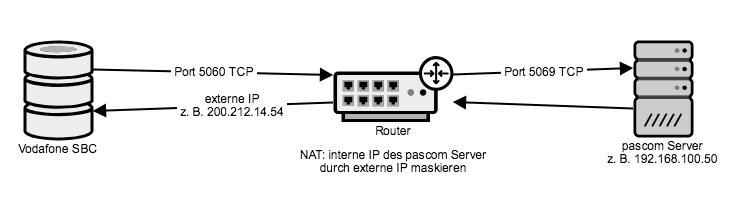
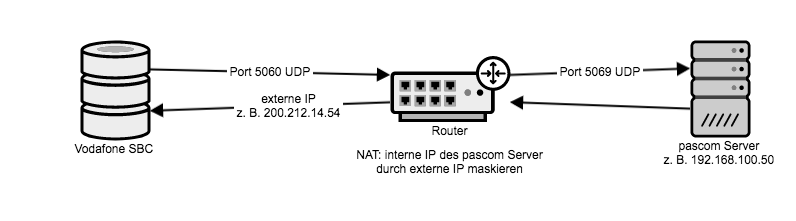
fixed Vodafone-NGN-Trunk documentation (TCP is wrong -> UDP is needed)

Changed region(s): [[0.0311, 0.1629, 0.9959, 0.7602], [0.4046, 0.6787, 0.6847, 0.7873]]

diff --git a/site/content/trunk-templates/vodafone-ngn/_index.de.md b/site/content/trunk-templates/vodafone-ngn/_index.de.md
@@ -33,8 +33,8 @@ Nach dem Erwerb und der Freischaltung Ihres Vodafone NGN Trunks erhalten Sie ein
 Beachten Sie, dass eine SIP-Kommunikation mit dem angegebenen SBC nur von der IP der Telefonanlage aus möglich ist. 
 Falls Sie Ihre pascom Telefonanlage in Ihrem eigenen Netzwerk mit einer privaten IP-Adresse verwenden, beachten Sie bitte die notwendigen Netzwerk-Einstellungen an Firewall/ Router (NAT).
 
-Eingehender Verkehr vom SBC der Vodafone muss an die IP-Adresse der pascom Telefonanlage weitergereicht werden. Aus Sicherheitsgründen sollte die Firewall-Regel sich hier ausschließlich auf Port 5060 TCP zu Port 5069 der Telefonanlage beschränken. 
-Umgekehrt muss ausgehender Verkehr per NAT modifiziert werden, da der SBC der Vodafone nur Daten von der externen IP von Port 5069 auf Port 5060 TCP des Access akzeptiert.
+Eingehender Verkehr vom SBC der Vodafone muss an die IP-Adresse der pascom Telefonanlage weitergereicht werden. Aus Sicherheitsgründen sollte die Firewall-Regel sich hier ausschließlich auf Port 5060 UDP zu Port 5069 der Telefonanlage beschränken. 
+Umgekehrt muss ausgehender Verkehr per NAT modifiziert werden, da der SBC der Vodafone nur Daten von der externen IP von Port 5069 auf Port 5060 UDP des Access akzeptiert.
 Abgehend sind Ihre Einstellungen der Telefonanlage mit dem Bereich der RTP Ports zu berücksichtigen, damit diese Pakete von der Telefonanlage über die Firewall zum SBC übertragen werden. 
 
 ![Vodafone Port-Forwarding](vodafone_ngn_forwarding.de.png)

diff --git a/site/content/trunk-templates/vodafone-ngn/_index.en.md b/site/content/trunk-templates/vodafone-ngn/_index.en.md
@@ -32,8 +32,8 @@ After the purchase and activation of your Vodafone NGN trunk, you will receive a
 Please note that SIP communication with the entered SBC is only possible from the phone system IP address. 
 Should you use your pascom phone system inside your own network with a private IP address, please verify the necessary network settings on your firewall / router (NAT).
 
-Inbound traffic from the Vodafone SBC must be forwarded onto the pascom phone system. For security reasons, the firewall rule should be exclusively limited to port 5060 TCP to port 5069 of the phone system. 
-Conversely, outbound traffic must be modified per NAT, as the Vodafone SBC only accepts data from the external IP from port 5069 to port 5060 tcp of the connection.
+Inbound traffic from the Vodafone SBC must be forwarded onto the pascom phone system. For security reasons, the firewall rule should be exclusively limited to port 5060 UDP to port 5069 of the phone system. 
+Conversely, outbound traffic must be modified per NAT, as the Vodafone SBC only accepts data from the external IP from port 5069 to port 5060 UDP of the connection.
 Finally, you must consider your phone system settings in terms of the range of RTP ports so that these packets are transmitted from the phone system via the firewall to the SBC. 
 
 ![Vodafone Port-Forwarding](vodafone_ngn_forwarding.en.png)
